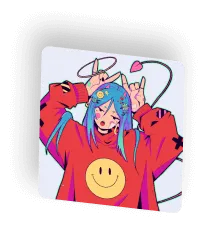
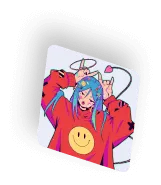
fix(Hero): fix Hero section imgaes of rigt side

diff --git a/src/components/home/hero/hero.tsx b/src/components/home/hero/hero.tsx
@@ -72,10 +72,10 @@ export function Hero() {
           animate={{ opacity: 1, y: 0 }}
           transition={{ duration: 1, delay: idx * 0.1 }}
           style={{ y }}
-          className={`absolute hidden lg:block z-10 ${idx === 0
-            ? 'top-8 left-4 w-20 h-20 lg:w-36 lg:h-36'
+          className={`absolute hidden md:block z-10 ${idx === 0
+            ? 'top-8 left-0 w-20 h-20 lg:w-36 lg:h-36'
             : idx === 1
-              ? 'top-44 left-2 w-24 h-24 lg:w-48 lg:h-48'
+              ? 'top-24 -left-12 w-34 h-44 lg:w-58 lg:h-78'
               : idx === 2
                 ? 'top-44 left-40 w-24 h-24 lg:w-48 lg:h-48'
                 : idx === 3
@@ -98,19 +98,19 @@ export function Hero() {
           animate={{ opacity: 1, y: 0 }}
           transition={{ duration: 1, delay: idx * 0.1 }}
           style={{ y }}
-          className={`absolute hidden lg:block z-10 ${idx === 0
-            ? 'top-8 right-4 w-20 h-20 lg:w-36 lg:h-36'
-            : idx === 1
-              ? 'top-44 right-2 w-24 h-24 lg:w-48 lg:h-48'
-              : idx === 2
-                ? 'top-44 right-40 w-24 h-24 lg:w-48 lg:h-48'
-                : idx === 3
-                  ? 'top-[22rem] right-2 w-24 h-24 lg:w-48 lg:h-48'
-                  : idx === 4
-                    ? 'top-[22rem] right-40 w-24 h-24 lg:w-48 lg:h-48'
-                    : idx === 5
-                      ? 'top-[34rem] right-8 w-24 h-24 lg:w-48 lg:h-48'
-                      : 'top-[34rem] right-44 w-24 h-24 lg:w-48 lg:h-48'
+          className={`absolute hidden md:block z-10 ${idx === 0
+            ? '-top-2 -right-5 w-20 h-20 lg:w-48 lg:h-36'
+            : idx === 2
+              ? 'top-16 -right-15 w-28 h-32 lg:w-58 lg:h-96'
+              : idx === 1
+                ? 'top-24 right-20 w-24 h-24 lg:w-58 lg:h-64'
+                : idx === 4
+                  ? 'top-[24.5rem] -right-26 w-24 h-24 lg:w-58 lg:h-64'
+                  : idx === 3
+                    ? 'top-70 right-20 w-24 h-24 lg:w-58 lg:h-84'
+                    : idx === 6
+                      ? 'top-[36rem] -right-20 w-24 h-24 lg:w-58 lg:h-58'
+                      : 'top-[35rem] right-24 w-24 h-24 lg:w-48 lg:h-58'
             }`}
         >
           <Image src={img} alt={`Right ${idx + 1}`} className="w-full h-full" />
